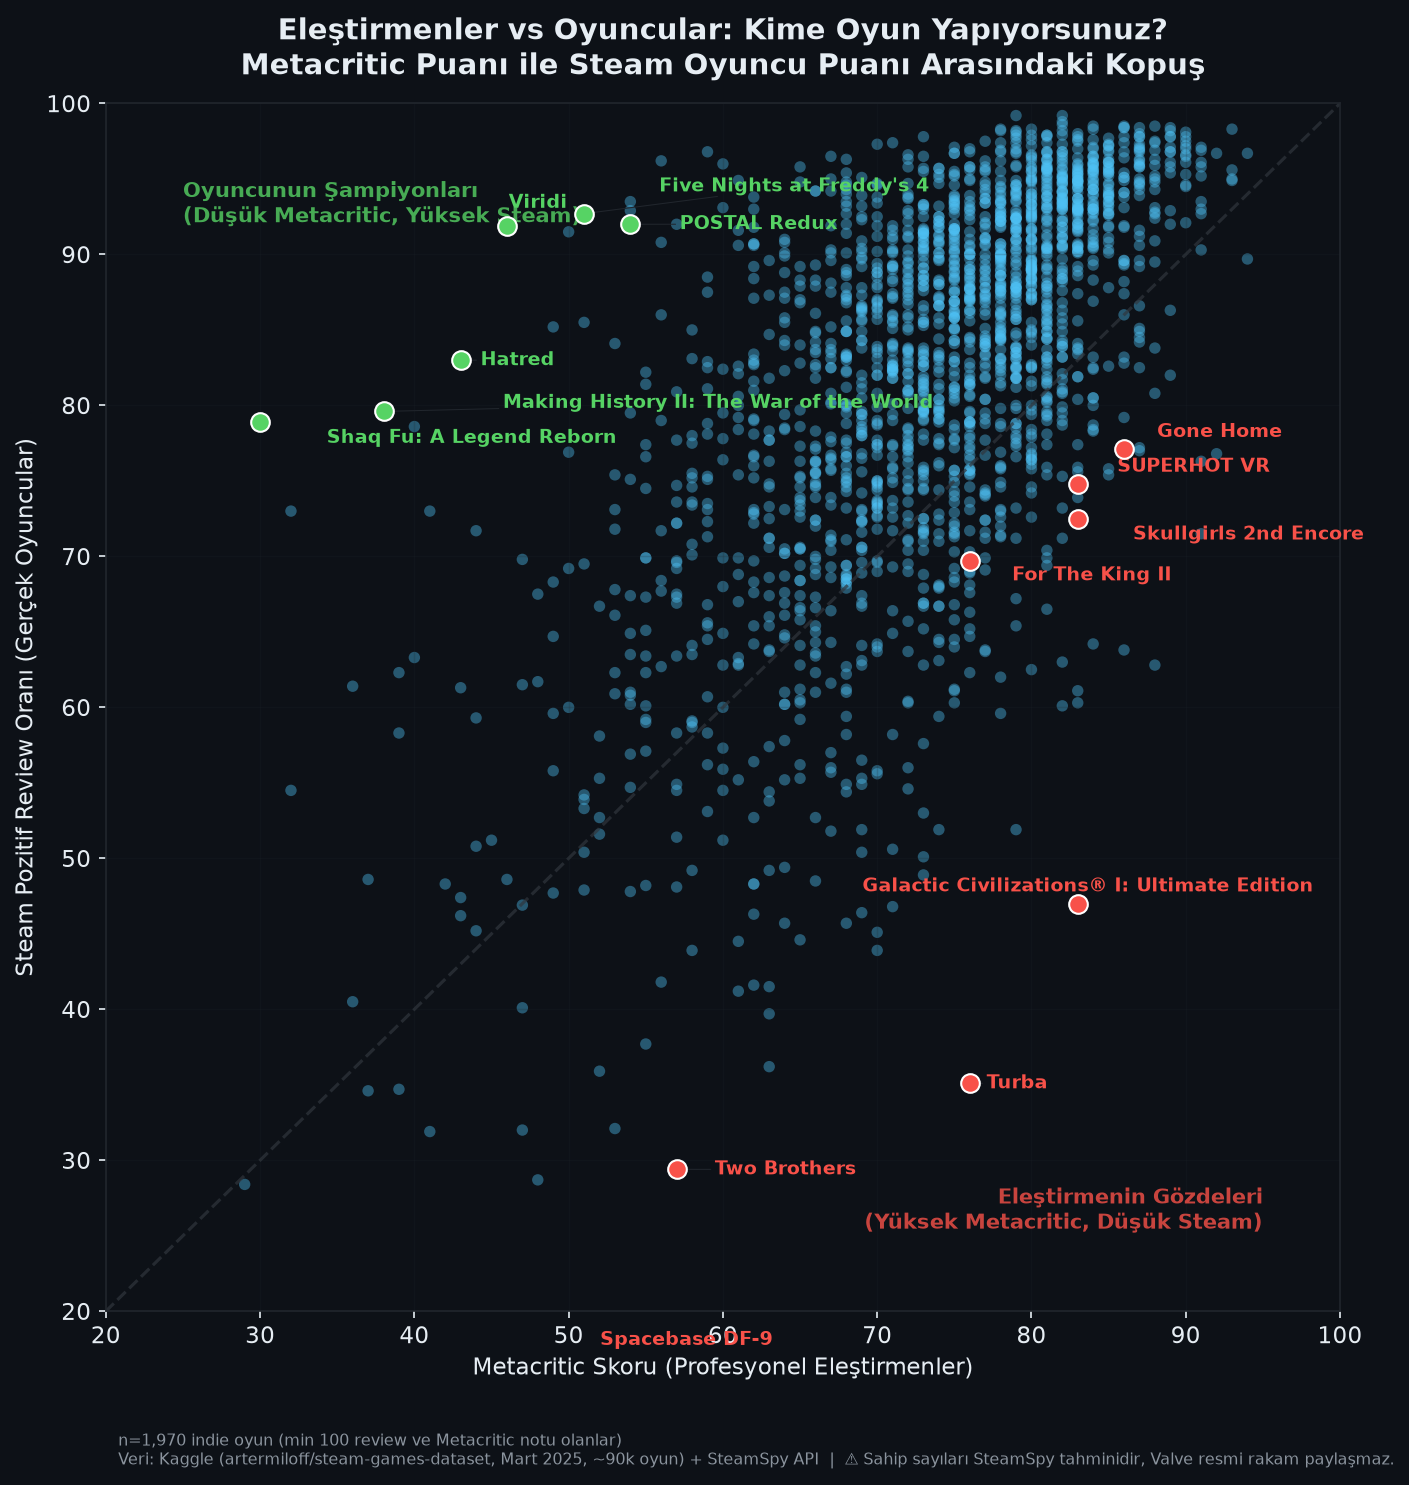
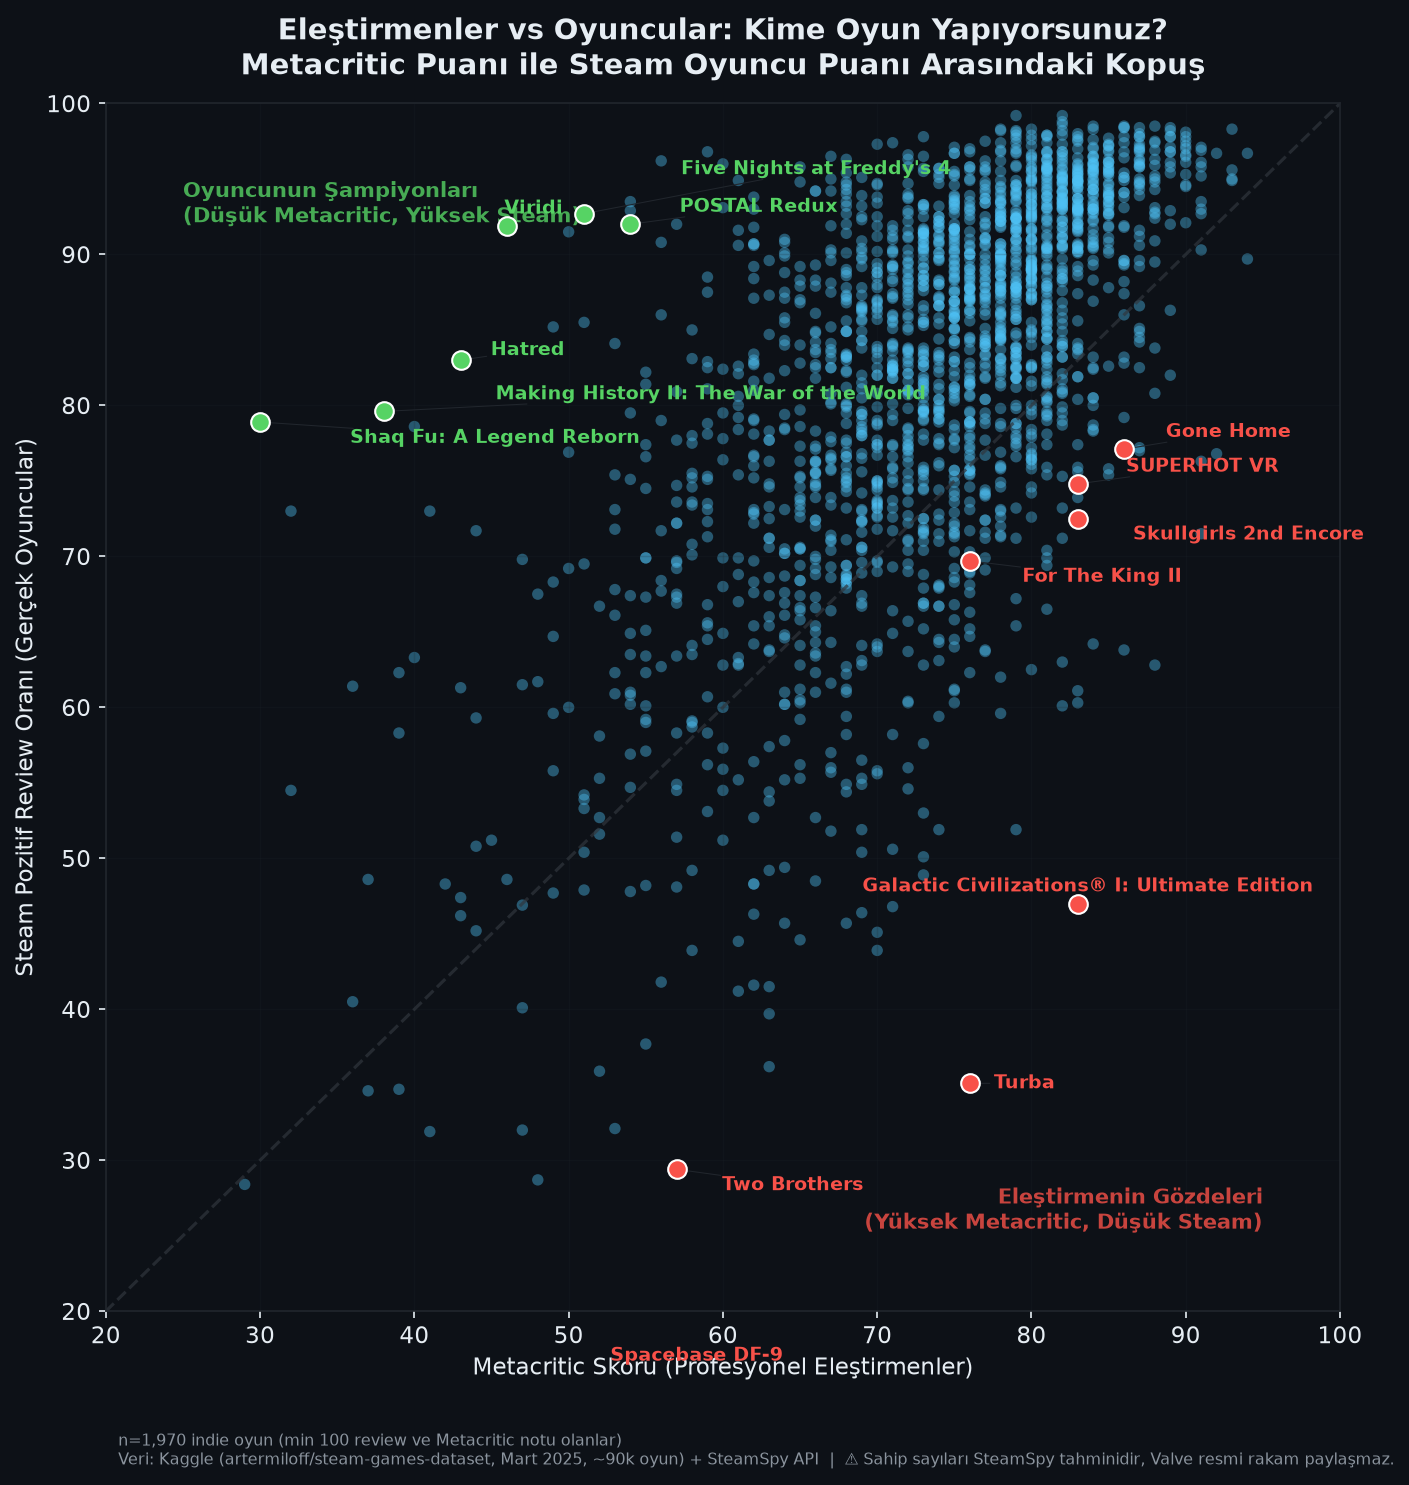
fix: static titles in Critics vs Players chart now correctly avoid auto-adjusted labels

diff --git a/src/visualizer.py b/src/visualizer.py
@@ -497,17 +497,19 @@ def chart_critics_vs_players(df):
         texts.append(ax.text(row["metacritic_score"], row["review_score"], row["name"],
                              fontsize=9, color=C["red"], fontweight="bold"))
 
+    # Başlık yazılarını en köşelere al ve değişkenlere ata
+    t1 = ax.text(95, 25, "Eleştirmenin Gözdeleri\n(Yüksek Metacritic, Düşük Steam)", 
+                 color=C["red"], fontsize=10, ha="right", va="bottom", alpha=0.8, fontweight="bold")
+    t2 = ax.text(25, 95, "Oyuncunun Şampiyonları\n(Düşük Metacritic, Yüksek Steam)", 
+                 color=C["green"], fontsize=10, ha="left", va="top", alpha=0.8, fontweight="bold")
+
     try:
         from adjustText import adjust_text
-        adjust_text(texts, arrowprops=dict(arrowstyle="-", color=C["grid"], lw=0.5))
+        # t1 ve t2'yi 'objects' olarak veriyoruz ki adjustText bu yazılardan da kaçsın
+        adjust_text(texts, objects=[t1, t2], arrowprops=dict(arrowstyle="-", color=C["grid"], lw=0.5), 
+                    expand=(1.2, 1.2), force_text=(0.3, 0.3))
     except ImportError:
         print("  Uyarı: adjustText yüklü değil, yazılar üst üste binebilir.")
-
-    # Başlık yazılarını en köşelere al (iç içe girmesinler diye)
-    ax.text(95, 25, "Eleştirmenin Gözdeleri\n(Yüksek Metacritic, Düşük Steam)", 
-            color=C["red"], fontsize=10, ha="right", va="bottom", alpha=0.8, fontweight="bold")
-    ax.text(25, 95, "Oyuncunun Şampiyonları\n(Düşük Metacritic, Yüksek Steam)", 
-            color=C["green"], fontsize=10, ha="left", va="top", alpha=0.8, fontweight="bold")
             
     ax.set_xlim(20, 100)
     ax.set_ylim(20, 100)
